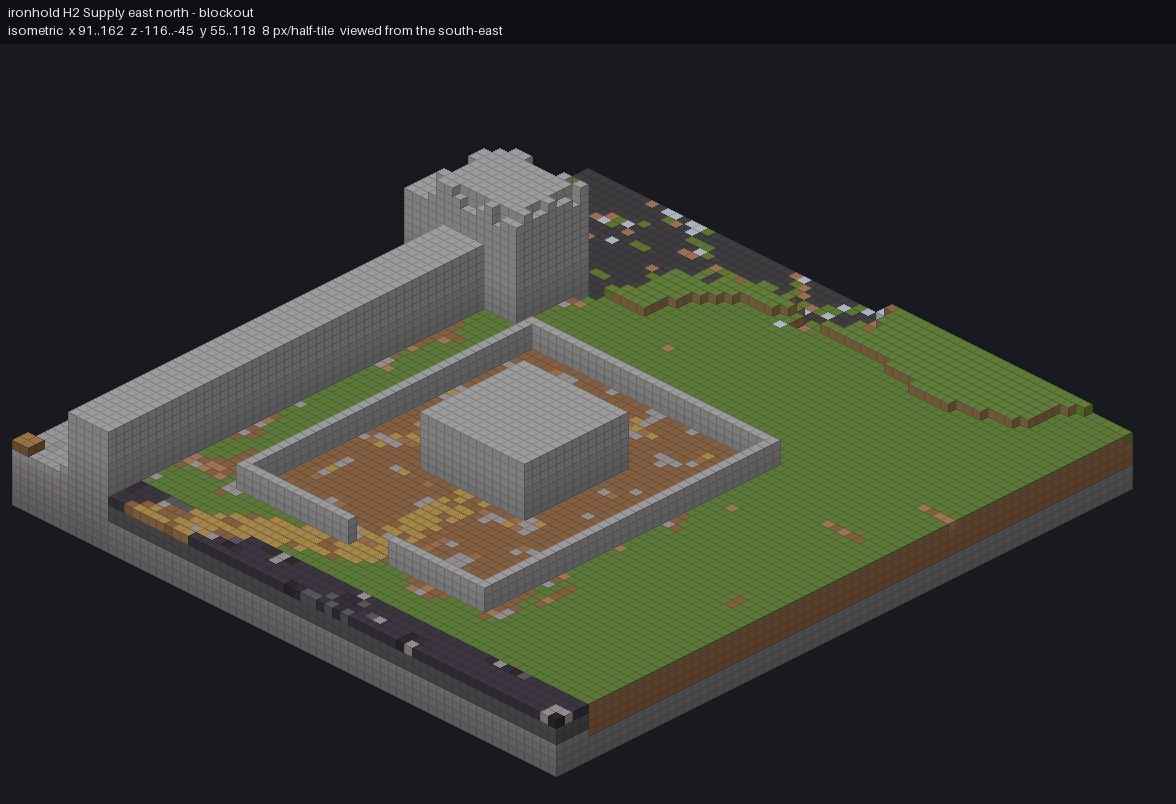
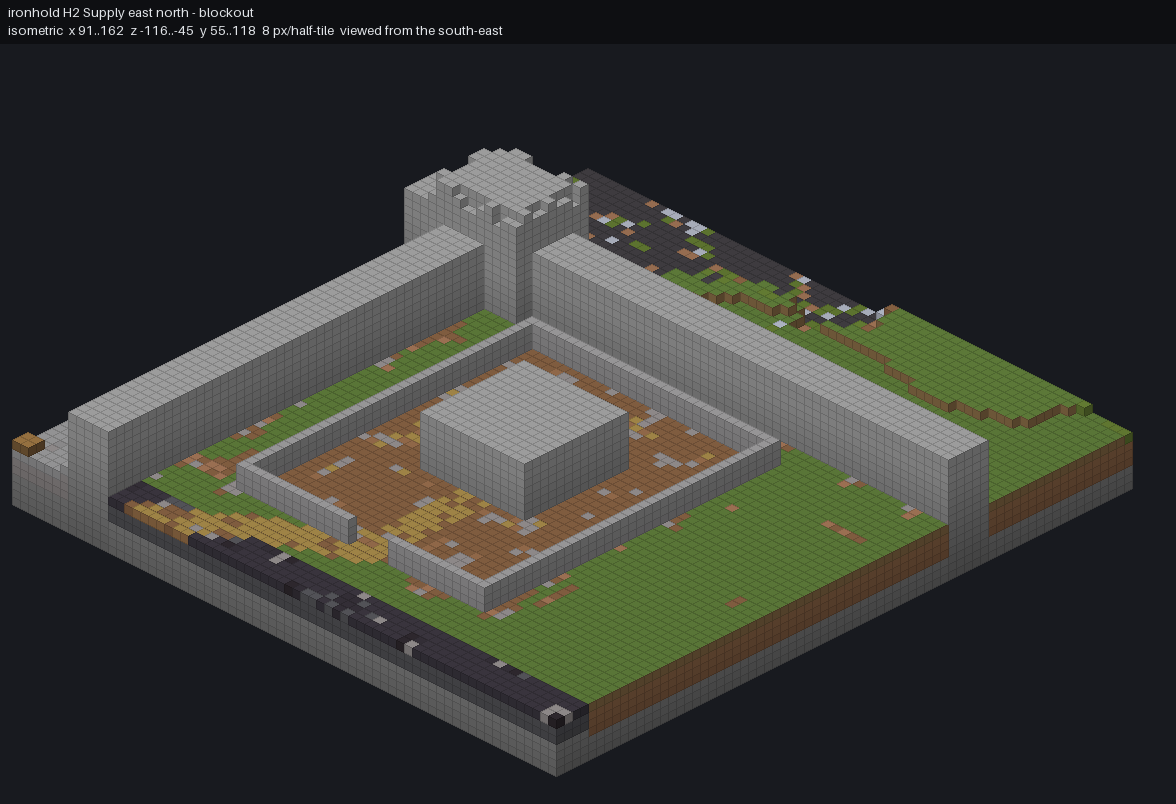
Narrow the spawn locks, floor the Dusk spawn and close the Donjon Court
Per Kort's 2026-10-31 rulings, spawn-dawn and spawn-dusk now lock y 64..90
like the capture rings. H3 gets a polished blackstone floor under Dusk, and
H2/H5 run the north and south curtains past the solid corner towers to x 158.
Applied as small reopen plans so the rest stays as built.

Changed region(s): [[0.4286, 0.2799, 0.8571, 0.6841]]

diff --git a/docs/maps/ironhold/sections/make_blockout.py b/docs/maps/ironhold/sections/make_blockout.py
@@ -2,6 +2,7 @@
 
   python docs/maps/ironhold/sections/make_blockout.py base             # stand-in base world in work/mapforge/ironhold/
   python docs/maps/ironhold/sections/make_blockout.py plans [GROUP|ID]  # blockout plans beside this file (default core)
+  python docs/maps/ironhold/sections/make_blockout.py rulings [ID]      # Kort's 2026-10-31 changes as small reopen plans
 
 Blockout is massing only. Every column is described once by `column(x, z)` (fortress columns E and F, field columns
 A..D) and each section's plan is that description clipped to the section and grouped into terrain ops by material.
@@ -384,18 +385,19 @@ DONJON = (103, 158, -48, 48)  # Donjon Court floor, polished blackstone at 63
 NE_YARD, SE_YARD = (110, 140, -90, -54), (125, 155, 54, 90)  # east supply yards (x0, x1, z0, z1)
 EAST_HOUSES = ((119, 131, -80, -68), (134, 146, 64, 76))
 HALL = (110, 150, -40, -20)  # barracks hall in the court
-DUSK = (126, 130, -2, 2)  # spawn-dusk protect lock (y 56..90): no op places a block in this column box
+DUSK = (126, 130, -2, 2)  # spawn-dusk protect lock (y 64..90 since Kort 2026-10-31): a plain floor to 63, nothing above
 DUSK_EX = {'min': [125, -3], 'max': [131, 3]}
 FLAGS = ('minecraft:polished_blackstone', 'minecraft:cobbled_deepslate', 2, 'minecraft:stone')
 
 
 def east(x, z):
     """Column H (x 95..158): the east curtain at x 98..102 with its corner towers, Donjon Court behind it, the two
-    east supply yards, the flanks beyond the curtain lines and the east watchtowers. The Dusk spawn box is left
-    empty: its protect lock refuses any block from y 56 up."""
+    east supply yards, the flanks beyond the curtain lines and the east watchtowers. Kort 2026-10-31: the Dusk spawn
+    box gets a real floor (plain polished blackstone to 63; its lock now refuses blocks y 64..90 only), and the north
+    and south curtains run on past the corner towers to the gorge parapet, so the court is walled like an inner ward."""
     az = abs(z)
     if DUSK[0] <= x <= DUSK[1] and DUSK[2] <= z <= DUSK[3]:
-        return None
+        return (GROUND, ('minecraft:polished_blackstone', 'minecraft:polished_blackstone', 2, 'minecraft:stone'), None)
     t = _tower(x, z, EAST_WATCH, 79, 'ewatch')
     if t:
         return t
@@ -405,8 +407,8 @@ def east(x, z):
             return (76 - int(_hash('ecorner', x, z) * 3) if edge else 76, WALL, None)
     if az > 98:
         return flank(x, z, (GROUND, GRASS, None))
-    if 98 <= x <= 102 or (x <= 102 and az >= 94):
-        return (71, WALL, None)  # east curtain, and the north and south curtains' last blocks
+    if 98 <= x <= 102 or az >= 94:
+        return (71, WALL, None)  # east curtain, and the north and south curtains on east to the gorge parapet
     if x <= 97:
         return (GROUND, ('minecraft:andesite', 'minecraft:gravel', 2, 'minecraft:stone'), None)  # east bailey
     if DONJON[0] <= x <= DONJON[1] and DONJON[2] <= z <= DONJON[3]:
@@ -417,7 +419,44 @@ def east(x, z):
     return (GROUND, GRASS, None)
 
 
+GORGE_X0, PARAPET, GORGE_FLOOR = 159, (166, 168), 44  # column I: ground to the parapet, then the drop to the gorge floor
+GORGE_BED = ('minecraft:gravel', 'minecraft:stone', 2, 'minecraft:stone')
+GORGE_BASE = 40  # gorge columns build from here (the rest of the map from FLOOR)
+
+
+def gorge(x, z):
+    """Column I (x 159..222), the gorge parapet (layout zone table): the ward ground and the flanks run on to a low
+    stone parapet at x 166..168 (walk 64, top 65, merlons to 66); the north and south curtains close on it, so the
+    Donjon Court's ward is walled on every side (Kort 2026-10-31). Past it the rim breaks off along a ragged edge
+    2..6 blocks out and drops in steep crag steps to the gorge floor at 44, with scree banked at the foot and a few
+    fallen boulders."""
+    az = abs(z)
+    if x <= PARAPET[1]:
+        if 94 <= az <= 98:
+            return (71, WALL, None)  # north and south curtains run on to the parapet
+        if x >= PARAPET[0]:
+            return (66 if (z + x) % 2 == 0 else 65, WALL, None)
+        if az > 98:
+            return flank(x, z, (GROUND, GRASS, None))
+        return (GROUND, GRASS, None)
+    edge = PARAPET[1] + 2.5 + 2 * terrain.fbm(terrain.seed_of('gorge-edge'), x, z, 10, 3)
+    out = x - edge
+    if out < 0:
+        return (GROUND, CRAG if out > -1.2 else GRASS, None)
+    step = 0.6 * terrain.fbm(terrain.seed_of('gorge-ledge'), x, z, 4, 2)
+    face = GROUND - 1 - int(round(4.5 * out + 3 * step))
+    scree = GORGE_FLOOR + int(round(5 * _smooth(1 - (out - 3) / 9) + 1.5 * terrain.fbm(terrain.seed_of('scree'), x, z, 5, 2)))
+    boulder = terrain.fbm(terrain.seed_of('gorge-boulder'), x, z, 3, 1)
+    top = max(face, scree, GORGE_FLOOR)
+    if out > 12 and boulder > 0.55:
+        top = max(top, GORGE_FLOOR + 2 + (boulder > 0.7))
+        return (top, CRAG, None, GORGE_BASE)
+    return (top, CRAG if top == face and top > scree else GORGE_BED, None, GORGE_BASE)
+
+
 def column(x, z):
+    if x >= GORGE_X0:
+        return gorge(x, z)
     if x >= 95:
         return east(x, z)
     t = _tower(x, z, WATCHTOWERS, 77, 'watch')
@@ -1129,6 +1168,24 @@ def _east_surface():
     ]
 
 
+GORGE = (159, -176, 222, 207)  # column I, rows 1..6 (x0, z0, x1, z1)
+
+
+def _gorge_surface():
+    return [
+        ({'op': 'breakup', 'note': 'gorge faces: andesite, tuff and gravel in the crag', 'replace': [W + 'stone'],
+          'mix': _mix(('andesite', 3), ('tuff', 2), ('cobblestone', 1), ('gravel', 1), ('stone', 2)),
+          'density': 0.6, 'scale': 2, 'depth': 3, 'seed': 'gorge-face'}, GORGE),
+        ({'op': 'breakup', 'note': 'gorge floor: scree, cobble and coarse dirt', 'replace': [W + 'gravel'],
+          'mix': _mix(('cobblestone', 2), ('andesite', 2), ('coarse_dirt', 1), ('tuff', 1)),
+          'density': 0.35, 'scale': 2, 'seed': 'gorge-bed'}, GORGE),
+        ({'op': 'breakup', 'note': 'rim: grass worn along the parapet and curtain foot', 'replace': [W + 'grass_block'],
+          'mix': _mix(('coarse_dirt', 2), ('rooted_dirt', 1), ('gravel', 1)),
+          'near': [W + 'stone_bricks', W + 'stone'], 'width': 2, 'density': 0.5, 'scale': 2, 'seed': 'rimfoot'},
+         GORGE),
+    ]
+
+
 def features():
     """Every helper op on the map, in apply order. Each is clipped to the section it is planned for; noise, erode
     and breakup carry a region (x0, z0, x1, z1) that is intersected with the section."""
@@ -1262,6 +1319,7 @@ def features():
     f += _west_surface()
     f += _bailey_surface()
     f += _east_surface()
+    f += _gorge_surface()
     return f
 
 
@@ -1298,7 +1356,8 @@ GROUPS = {'core': CORE, 'mire': ('C3', 'C4', 'D3', 'D4'),
           'south': ('C5', 'D5', 'E5', 'F5', 'G5', 'C6', 'D6', 'E6', 'F6', 'G6'),
           'west': ('B1', 'B2', 'B3', 'B4', 'B5', 'B6'),
           'bailey': ('G2', 'G3', 'G4'),
-          'east': ('H1', 'H2', 'H3', 'H4', 'H5', 'H6')}
+          'east': ('H1', 'H2', 'H3', 'H4', 'H5', 'H6'),
+          'gorge': ('I1', 'I2', 'I3', 'I4', 'I5', 'I6')}
 REOPEN = ("Kort's rulings of 2026-10-30: east curtain to x 98 (x 72 pieces dropped), inner ward closed to the river "
           'cliffs, Great Keep tower out of the river, stations awaiting the modes lane; 2026-10-31: the river bends '
           'around the keep court; 2026-10-31 milestone 2A.3: river, banks and walls rebuilt with the terrain helpers')
@@ -1338,16 +1397,17 @@ def section_plan(m, sid, world):
             c = column(x, z)
             if c is None:
                 continue
-            top, (surface, under, depth, core), clear = c
-            groups.setdefault((surface, under, depth, core, clear), {})[(x, z)] = top
+            top, (surface, under, depth, core), clear = c[:3]
+            floor = c[3] if len(c) > 3 else FLOOR  # the gorge builds from lower down
+            groups.setdefault((surface, under, depth, core, clear, floor), {})[(x, z)] = top
     ops = []
-    for (surface, under, depth, core, clear), cols in sorted(groups.items(), key=lambda kv: (-len(kv[1]), kv[0][0])):
+    for (surface, under, depth, core, clear, floor), cols in sorted(groups.items(), key=lambda kv: (-len(kv[1]), kv[0][0])):
         xs, zs = [p[0] for p in cols], [p[1] for p in cols]
         gx0, gx1, gz0, gz1 = min(xs), max(xs), min(zs), max(zs)
         heights = [[(cols[(x, z)] - GROUND) if (x, z) in cols else None for x in range(gx0, gx1 + 1)]
                    for z in range(gz0, gz1 + 1)]
         op = {'op': 'terrain', 'note': f'{surface.split(":")[1]} massing ({len(cols)} columns)',
-              'origin': [gx0, gz0], 'base': GROUND, 'floor': FLOOR, 'surface': surface, 'under': under,
+              'origin': [gx0, gz0], 'base': GROUND, 'floor': floor, 'surface': surface, 'under': under,
               'underDepth': depth, 'core': core, 'heights': heights}
         if clear is not None:
             op['clearTo'] = clear
@@ -1373,6 +1433,65 @@ def section_plan(m, sid, world):
                        REOPEN_FORD if sid == 'F5' else REOPEN_G5 if sid == 'G5' else
                        REOPEN_FORD_N if sid == 'F1' else REOPEN_F3 if sid == 'F3' else REOPEN)
     return p
+
+
+RULINGS_1031 = {  # Kort 2026-10-31: section -> (plan suffix, reason); only the ruled change, the rest stays as signed
+    'H3': ('dusk-floor', 'spawn-dusk lock narrowed to y 64..90; a real floor under the Dusk spawn'),
+    'H2': ('ward-north', 'Donjon Court enclosed: the north curtain runs on past the NE corner tower to the gorge parapet'),
+    'H5': ('ward-south', 'Donjon Court enclosed: the south curtain runs on past the SE corner tower to the gorge parapet'),
+}
+
+
+def rulings_plan(m, sid, world):
+    """A reopen plan holding only the 2026-10-31 ruled change in sid. Regenerating the whole section would also
+    redo seam wear that neighbouring passes have since settled, so the signed rest of the section is left alone."""
+    suffix, why = RULINGS_1031[sid]
+    s = mf.section(m, sid)
+    (x0, _, z0), (x1, _, z1) = mf.section_box(s)
+    if sid == 'H3':
+        cols = [(x, z) for x in range(DUSK[0], DUSK[1] + 1) for z in range(DUSK[2], DUSK[3] + 1)]
+    else:
+        cols = [(x, z) for x in range(EAST_CORNERS[0][1] + 1, x1 + 1) for z in range(z0, z1 + 1) if 94 <= abs(z) <= 98]
+    groups = {}
+    for x, z in cols:
+        top, (surface, under, depth, core), _ = column(x, z)[:3]
+        groups.setdefault((surface, under, depth, core), {})[(x, z)] = top
+    ops = []
+    for (surface, under, depth, core), g in groups.items():
+        xs, zs = [p[0] for p in g], [p[1] for p in g]
+        ops.append({'op': 'terrain', 'note': f'{surface.split(":")[1]}: {why} ({len(g)} columns)',
+                    'origin': [min(xs), min(zs)], 'base': GROUND, 'floor': FLOOR, 'surface': surface, 'under': under,
+                    'underDepth': depth, 'core': core,
+                    'heights': [[(g[(x, z)] - GROUND) if (x, z) in g else None for x in range(min(xs), max(xs) + 1)]
+                                for z in range(min(zs), max(zs) + 1)]})
+    if sid != 'H3':
+        zc = -96 if sid == 'H2' else 96
+        ops.append({'op': 'breakup', 'note': 'grass worn along the new curtain foot', 'replace': [W + 'grass_block'],
+                    'mix': _mix(('coarse_dirt', 2), ('rooted_dirt', 1), ('gravel', 1)), 'near': [W + 'stone_bricks'],
+                    'width': 2.5, 'density': 0.5, 'scale': 2, 'seed': f'curtainfoot{zc}',
+                    'min': [EAST_CORNERS[0][1] + 1, max(z0, zc - 6)], 'max': [x1, min(z1, zc + 6)]})
+    return {
+        'format': PLAN_FORMAT, 'id': f'ironhold-{sid.lower()}-{suffix}', 'world': 'ironhold',
+        'author': 'map lane agent (Opus 5.5), 2026-10-31',
+        'purpose': f"Kort's ruling of 2026-10-31 in section {sid}: {why}. Generated by "
+                   'docs/maps/ironhold/sections/make_blockout.py rulings.',
+        'section': sid, 'pass': 'blockout', 'reopen': f"Kort's ruling of 2026-10-31: {why}",
+        'expectSection': mf.section_digests(m, world, {sid})[sid],
+        'limits': {'maxChangedBlocks': 20000},
+        'operations': ops,
+    }
+
+
+def rulings(only):
+    m, w = mf.load_manifest(MAP), World.load(WORLD)
+    for sid in only:
+        p = rulings_plan(m, sid, w)
+        errors = validate(p)
+        if errors:
+            raise SystemExit('\n'.join(errors))
+        path = HERE / f'{sid}-{RULINGS_1031[sid][0]}.json'
+        path.write_text(dump(p), encoding='utf-8')
+        print(f'{path.name}: {len(p["operations"])} ops, expectSection {p["expectSection"][:12]}')
 
 
 def base():
@@ -1435,6 +1554,8 @@ if __name__ == '__main__':
     cmd = sys.argv[1] if len(sys.argv) > 1 else ''
     if cmd == 'base':
         base()
+    elif cmd == 'rulings':
+        rulings(sys.argv[2:] or list(RULINGS_1031))
     elif cmd == 'plans':
         ids = []
         for a in sys.argv[2:] or ['core']:

diff --git a/docs/maps/ironhold/make_manifest.py b/docs/maps/ironhold/make_manifest.py
@@ -73,8 +73,8 @@ PROTECT = [
     ring('capture-a', 'capture', -29, -130, 17, 'Domination point A ring: no blocks y 64..67 inside the ring', CAMPAIGN),
     ring('capture-b', 'capture', 0, 0, 17, 'Domination point B ring (river deck): no blocks y 64..67', CAMPAIGN),
     ring('capture-c', 'capture', 29, 130, 17, 'Domination point C ring (Watch Hill): no blocks y 64..67', CAMPAIGN),
-    box('spawn-dawn', 'spawn', (-316, 56, -2), (-312, 90, 2), 'Dawn (west) spawn column at (-314,0)', LAYOUT),
-    box('spawn-dusk', 'spawn', (126, 56, -2), (130, 90, 2), 'Dusk (east) spawn column at (128,0), moved by pick D1a', LAYOUT),
+    box('spawn-dawn', 'spawn', (-316, 64, -2), (-312, 90, 2), 'Dawn (west) spawn column at (-314,0); no blocks y 64..90, floor below allowed (Kort 2026-10-31, like the capture rings)', LAYOUT),
+    box('spawn-dusk', 'spawn', (126, 64, -2), (130, 90, 2), 'Dusk (east) spawn column at (128,0), moved by pick D1a; no blocks y 64..90, floor below allowed (Kort 2026-10-31, like the capture rings)', LAYOUT),
     box('siege-ward-n', 'siege', (-33, 64, -27), (-6, 70, -23),
         'Siege ward-n (ironhold/ward 35x7x5 at -23,64,-25); trimmed to x -33 where it meets the gate wall', SIEGE),
     box('siege-ward-s', 'siege', (-33, 64, 23), (-24, 70, 27),
